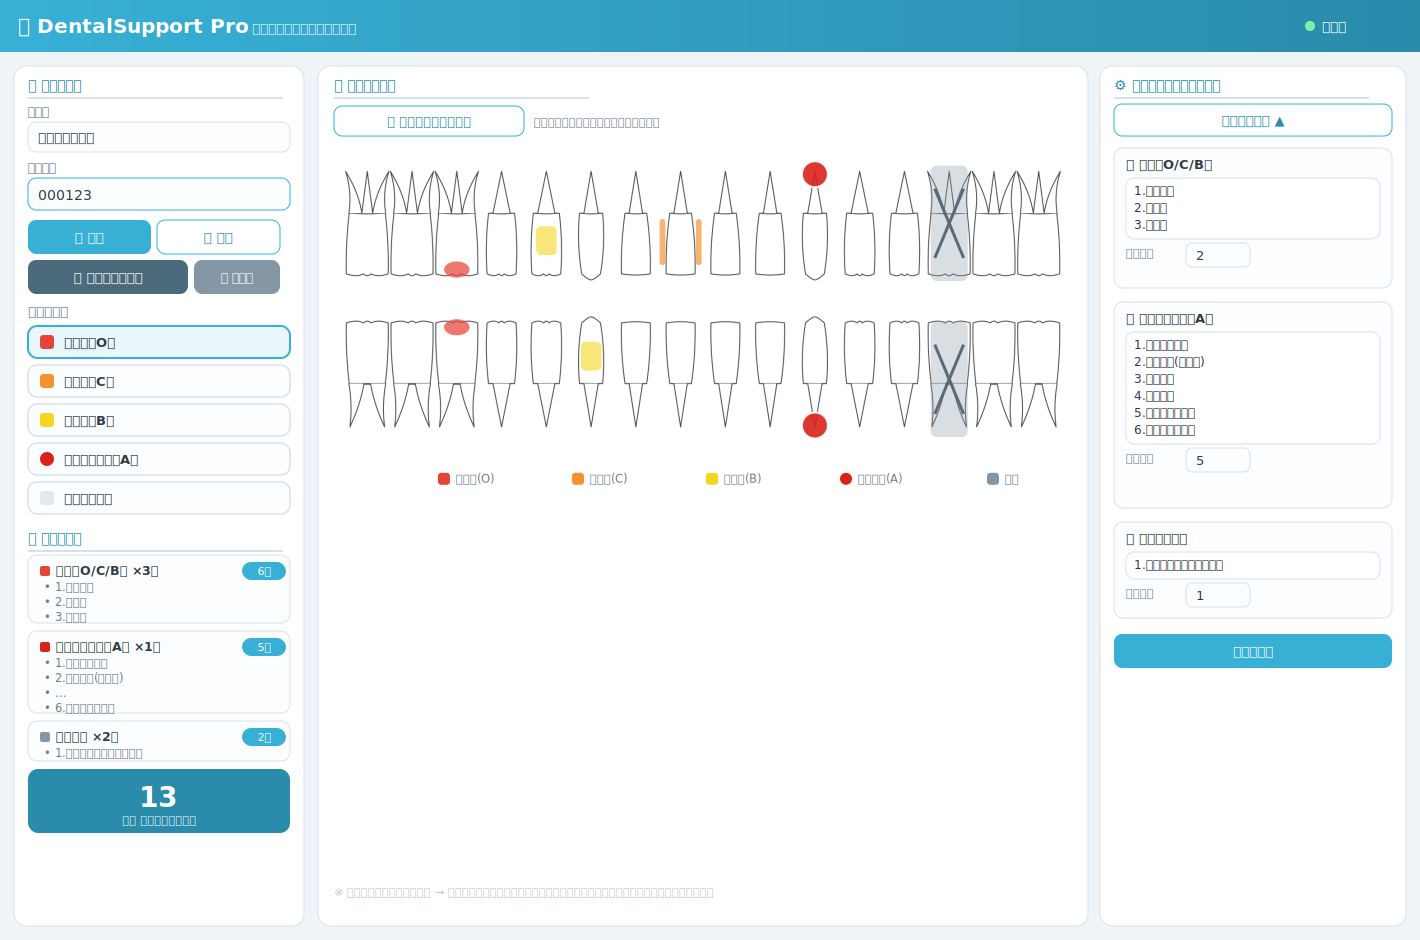
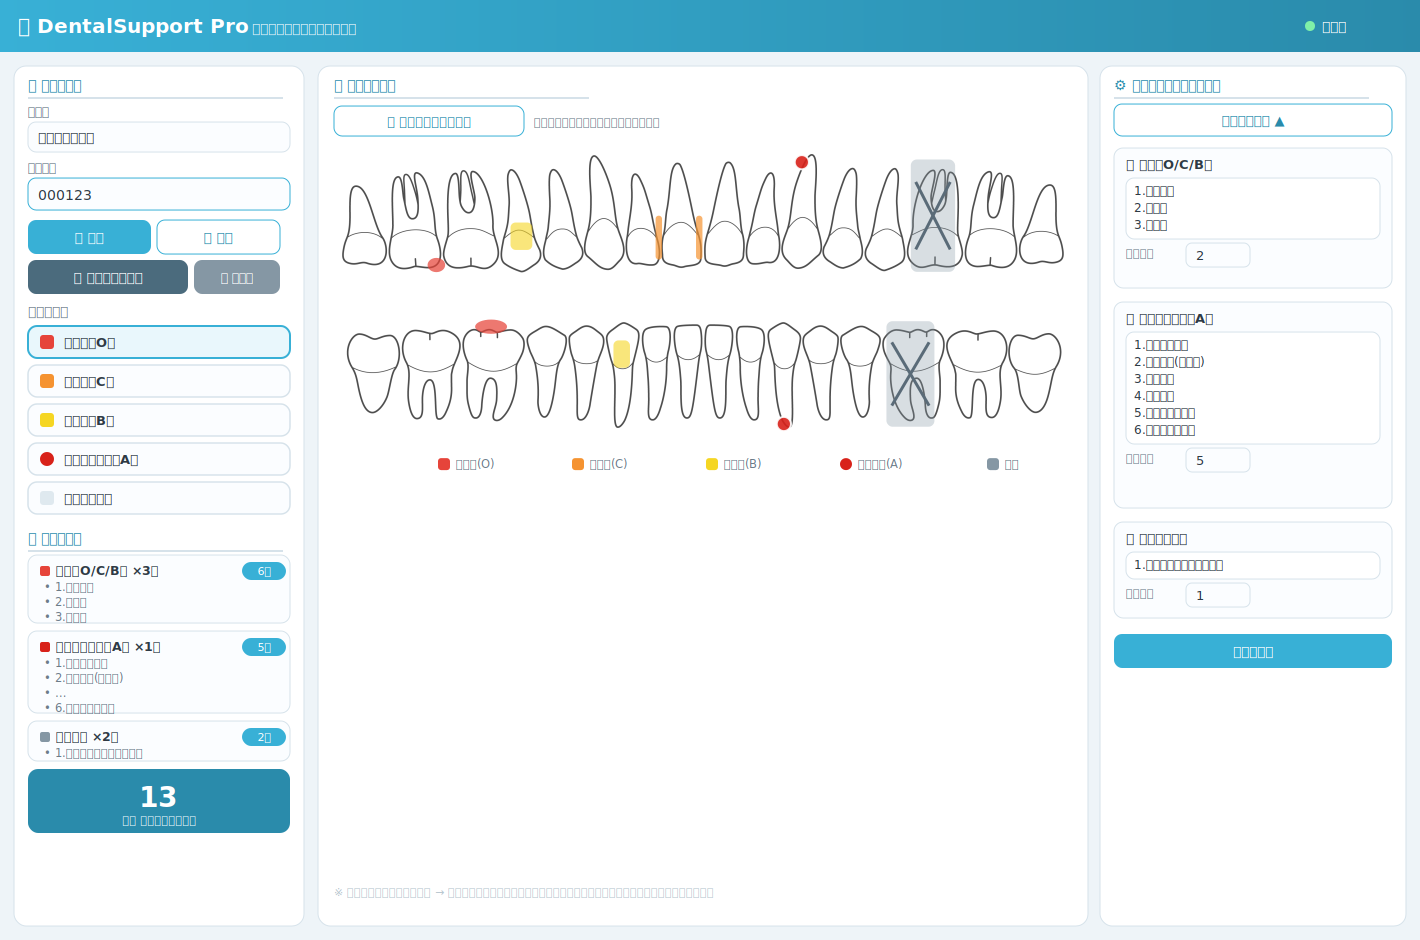
実画像の解析結果でマーク座標を精密較正
- アップロードされた実 tooth-chart.png(3046x1156)を画像解析し、
  上下各16本の歯の中心位置(TOOTH_CX)と縦位置(GEOF)を自動検出して反映
- overlay の viewBox を画像アスペクト(1000x380)に合わせ、円マークの歪みを解消
- 全歯にO/C/B/A・欠損マークが正確に重なることを確認
- プレビュー/README を更新

diff --git a/index.html b/index.html
@@ -207,7 +207,7 @@
 
     <div class="chart-wrap">
       <img id="chartImg" alt="歯列表" />
-      <svg id="overlay" viewBox="0 0 1000 400" preserveAspectRatio="none"></svg>
+      <svg id="overlay" viewBox="0 0 1000 380" preserveAspectRatio="none"></svg>
     </div>
 
     <div class="legend">
@@ -282,40 +282,54 @@ let toothData = {};
 let chartImageData = null; // 取り込んだ歯列画像(DataURL)
 
 const TEETH = 16; // 片顎16本
-const VBW = 1000, VBH = 400; // overlay viewBox
+const VBW = 1000, VBH = 380; // overlay viewBox（同梱 tooth-chart.png のアスペクト 3046:1156 に一致）
 
-/* 各歯の中心X（viewBox座標）。前歯〜臼歯まで概ね等間隔で配置 */
-function toothCenterX(i) { return Math.round((0.035 + i * (0.93 / (TEETH - 1))) * VBW); }
-
-/* 上顎・下顎それぞれの縦位置（viewBox座標, 画像内の割合×VBH） */
-const GEO = {
-  U: { hitTop: VBH*0.04, hitH: VBH*0.40, occY: VBH*0.40, bucY: VBH*0.30, apexY: VBH*0.07 },
-  L: { hitTop: VBH*0.58, hitH: VBH*0.40, occY: VBH*0.60, bucY: VBH*0.70, apexY: VBH*0.94 }
+/* 同梱 tooth-chart.png を画像解析して得た各歯の中心X（画像幅に対する割合）。
+   別レイアウトの歯列画像に差し替える場合は、この配列と下の GEOF を調整してください。 */
+const TOOTH_CX = {
+  U: [0.0341,0.0923,0.1307,0.1806,0.2485,0.3119,0.3903,0.4668,0.5286,0.5867,0.6369,0.6914,0.7489,0.8185,0.8972,0.9672],
+  L: [0.0420,0.1198,0.2065,0.2800,0.3355,0.3874,0.4350,0.4790,0.5217,0.5653,0.6120,0.6619,0.7150,0.7873,0.8756,0.9576]
 };
+/* 縦位置（画像高さに対する割合）：apex=根尖, buc=頬側中央, occ=咬合/切縁, ht/hb=歯の上端/下端 */
+const GEOF = {
+  U: { apex:0.030, buc:0.300, occ:0.405, ht:0.020, hb:0.430 },
+  L: { apex:0.985, buc:0.730, occ:0.630, ht:0.610, hb:0.995 }
+};
+
+/* 隣接間隔から各歯の半幅（割合）を算出 */
+function halfWFrac(arr, i) {
+  const d = i === 0 ? arr[1]-arr[0]
+          : i === arr.length-1 ? arr[i]-arr[i-1]
+          : (arr[i+1]-arr[i-1])/2;
+  return d * 0.46;
+}
 
 /* ================= オーバーレイ生成 ================= */
 function buildOverlay() {
   const ov = document.getElementById("overlay");
   let svg = "";
   ["U","L"].forEach(arch => {
-    const g = GEO[arch];
-    for (let i = 0; i < TEETH; i++) {
+    const g = GEOF[arch];
+    const cxs = TOOTH_CX[arch];
+    for (let i = 0; i < cxs.length; i++) {
       const id = arch + (i + 1);
       toothData[id] = { O:false, C:false, B:false, A:false, missing:false };
-      const x = toothCenterX(i);
-      const halfW = (0.93 / (TEETH - 1)) * VBW * 0.46;
+      const x  = cxs[i] * VBW;
+      const hw = halfWFrac(cxs, i) * VBW;
+      const occY = g.occ*VBH, bucY = g.buc*VBH, apexY = g.apex*VBH;
+      const hT = g.ht*VBH, hH = (g.hb-g.ht)*VBH;
       // マーク（半透明色）
-      const o = `<ellipse class="mk o" data-id="${id}" cx="${x}" cy="${g.occY}" rx="${halfW*0.62}" ry="${VBH*0.028}"/>`;
-      const b = `<rect class="mk b" data-id="${id}" x="${x-halfW*0.5}" y="${g.bucY-VBH*0.05}" width="${halfW}" height="${VBH*0.10}" rx="5"/>`;
-      const cL = `<rect class="mk c" data-id="${id}" x="${x-halfW*1.02}" y="${g.bucY-VBH*0.075}" width="${halfW*0.28}" height="${VBH*0.16}" rx="3"/>`;
-      const cR = `<rect class="mk c" data-id="${id}" x="${x+halfW*0.74}" y="${g.bucY-VBH*0.075}" width="${halfW*0.28}" height="${VBH*0.16}" rx="3"/>`;
-      const a = `<circle class="mk a" data-id="${id}" cx="${x}" cy="${g.apexY}" r="${VBH*0.045}"/>`;
+      const o = `<ellipse class="mk o" data-id="${id}" cx="${x}" cy="${occY}" rx="${hw*0.6}" ry="${VBH*0.026}"/>`;
+      const b = `<rect class="mk b" data-id="${id}" x="${x-hw*0.5}" y="${bucY-VBH*0.05}" width="${hw}" height="${VBH*0.10}" rx="5"/>`;
+      const cL = `<rect class="mk c" data-id="${id}" x="${x-hw*1.02}" y="${bucY-VBH*0.075}" width="${hw*0.28}" height="${VBH*0.16}" rx="3"/>`;
+      const cR = `<rect class="mk c" data-id="${id}" x="${x+hw*0.74}" y="${bucY-VBH*0.075}" width="${hw*0.28}" height="${VBH*0.16}" rx="3"/>`;
+      const a = `<circle class="mk a" data-id="${id}" cx="${x}" cy="${apexY}" r="${VBH*0.026}"/>`;
       // 欠損（×＋ボックス）
-      const xbox = `<rect class="mk xbox" data-id="${id}" x="${x-halfW*0.9}" y="${g.hitTop}" width="${halfW*1.8}" height="${g.hitH}" rx="6"/>`;
-      const xl1 = `<line class="mk xline" data-id="${id}" x1="${x-halfW*0.7}" y1="${g.hitTop+g.hitH*0.2}" x2="${x+halfW*0.7}" y2="${g.hitTop+g.hitH*0.8}"/>`;
-      const xl2 = `<line class="mk xline" data-id="${id}" x1="${x+halfW*0.7}" y1="${g.hitTop+g.hitH*0.2}" x2="${x-halfW*0.7}" y2="${g.hitTop+g.hitH*0.8}"/>`;
+      const xbox = `<rect class="mk xbox" data-id="${id}" x="${x-hw*0.9}" y="${hT}" width="${hw*1.8}" height="${hH}" rx="6"/>`;
+      const xl1 = `<line class="mk xline" data-id="${id}" x1="${x-hw*0.7}" y1="${hT+hH*0.2}" x2="${x+hw*0.7}" y2="${hT+hH*0.8}"/>`;
+      const xl2 = `<line class="mk xline" data-id="${id}" x1="${x+hw*0.7}" y1="${hT+hH*0.2}" x2="${x-hw*0.7}" y2="${hT+hH*0.8}"/>`;
       // クリック領域（最前面）
-      const hit = `<rect class="hit" data-id="${id}" x="${x-halfW*0.95}" y="${g.hitTop}" width="${halfW*1.9}" height="${g.hitH}"/>`;
+      const hit = `<rect class="hit" data-id="${id}" x="${x-hw*0.95}" y="${hT}" width="${hw*1.9}" height="${hH}"/>`;
       svg += xbox + b + cL + cR + o + a + xl1 + xl2 + hit;
     }
   });

diff --git a/README.md b/README.md
@@ -27,8 +27,9 @@
 - 同じフォルダに `tooth-chart.png` を置くと自動で表示されます（同梱の既定画像あり）。
 - お好みの歯列画像に差し替える場合は、画面の **「🖼 歯列画像を読み込む」** ボタンから画像ファイルを選択してください。
   取り込んだ画像は患者データと一緒に保存され、次回読込時にも再現されます。
-- マークの位置は画像を **上顎16本・下顎16本がほぼ等間隔に並んだ標準的な歯列図** に合わせて配置しています。
-  別レイアウトの画像でズレる場合は `index.html` 内の `toothCenterX()` / `GEO` の係数で微調整できます。
+- マークの位置は、同梱の `tooth-chart.png` を**画像解析して検出した各歯の中心位置**に合わせて精密に較正済みです
+  （`index.html` 内の `TOOTH_CX`：各歯中心の横位置、`GEOF`：根尖/咬合面などの縦位置）。
+- 別レイアウトの歯列画像に差し替えた場合は、`TOOTH_CX` / `GEOF` の値を調整すると合わせ込めます。
 
 ## 印刷（患者用説明書）
 
